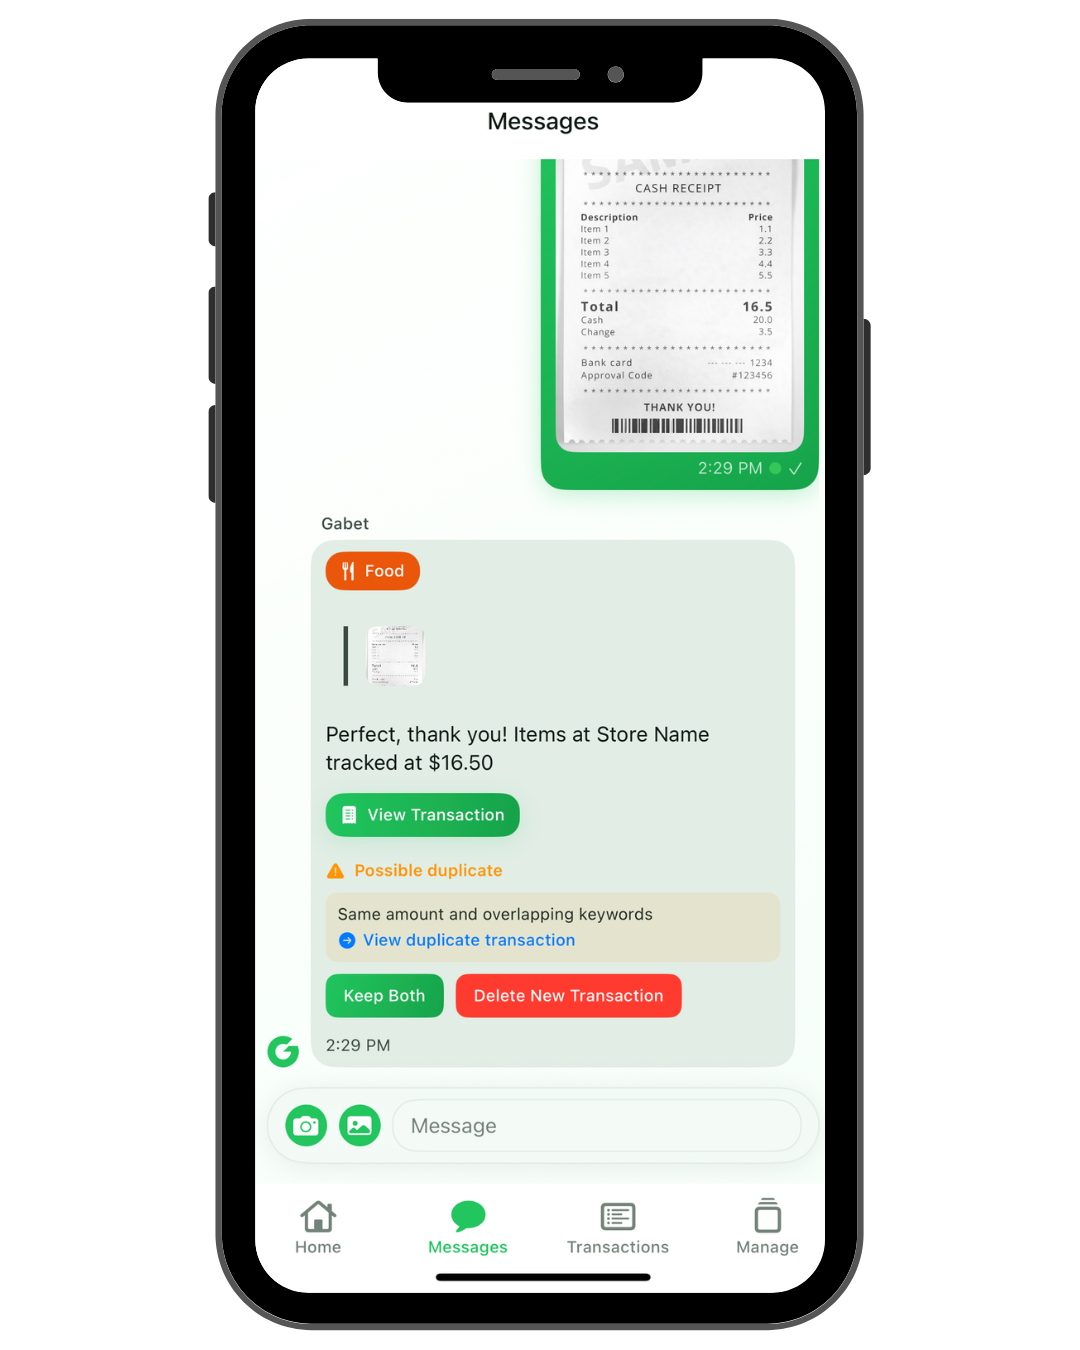
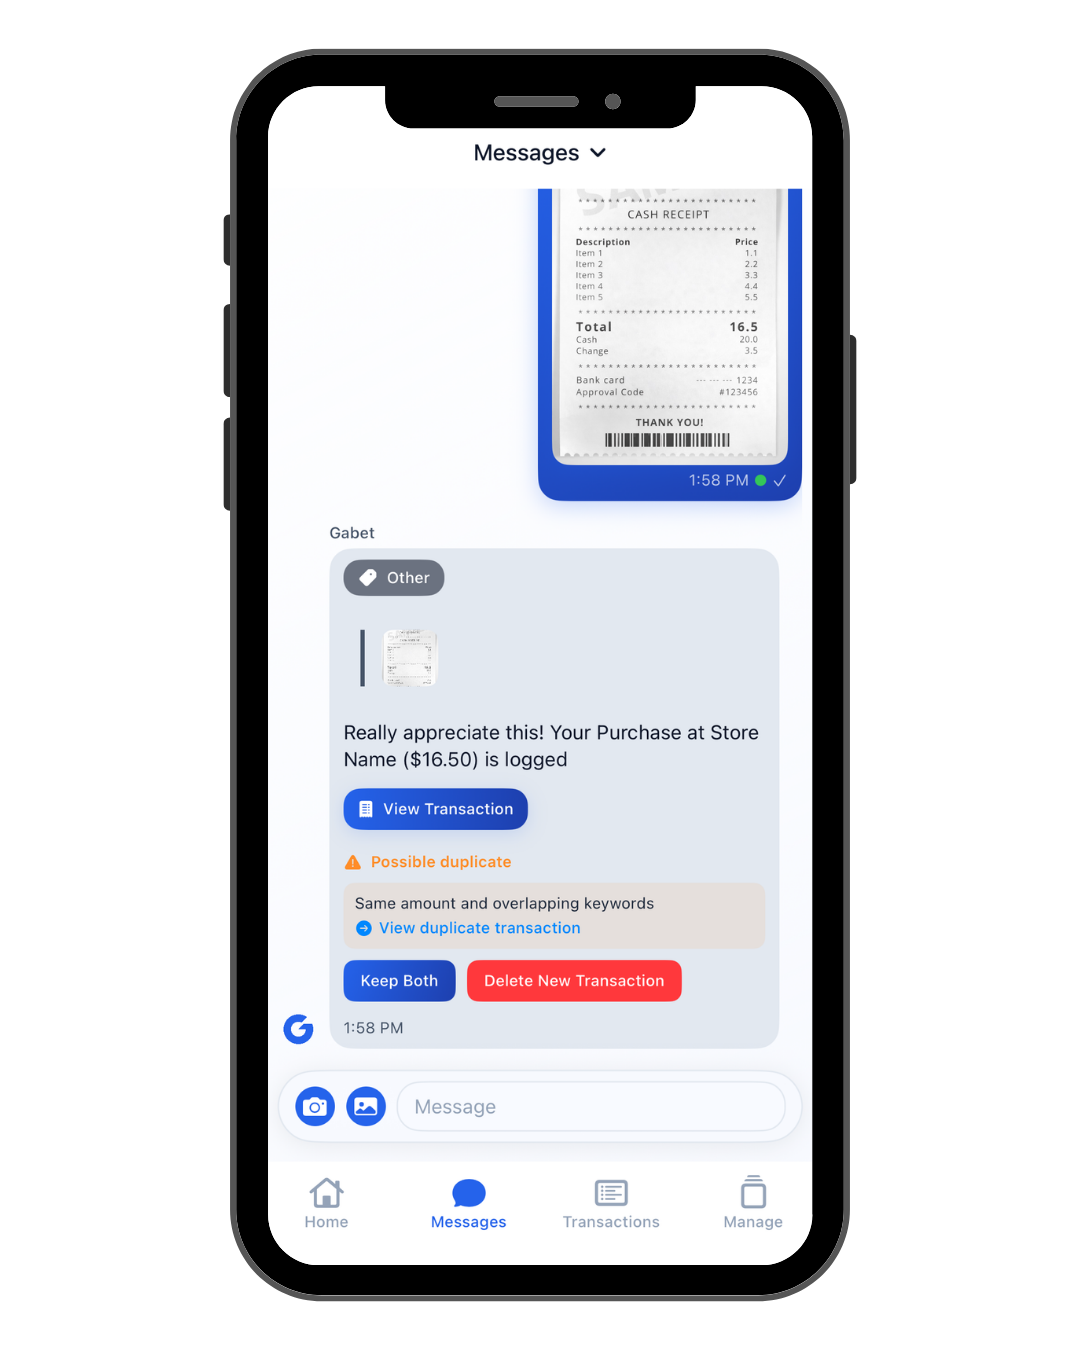
Update color theme

Changed region(s): [[0.1833, 0.0, 0.825, 0.9956]]

diff --git a/index.html b/index.html
@@ -6,45 +6,45 @@
   <title>Gabet - Conversational Budgeting</title>
   <style>
     :root {
-      --primary: #22C55E;
-      --primary-dark: #16A34A;
-      --tertiary: #15803D;
-      --accent-mint: #4ADE80;
-      --accent-teal: #14B8A6;
-      --accent-gold: #FACC15;
-      --text: #0F1A14;
-      --neutral700: #1F2B24;
-      --neutral500: #3B4B42;
-      --neutral300: #738379;
-      --border: #E1EDE5;
-      --surface-elevated: #F4FBF6;
+      --primary: #2563EB;
+      --primary-dark: #1E40AF;
+      --tertiary: #1E3A8A;
+      --accent-mint: #60A5FA;
+      --accent-teal: #93C5FD;
+      --accent-gold: #FBBF24;
+      --text: #0F172A;
+      --neutral700: #1E293B;
+      --neutral500: #475569;
+      --neutral300: #94A3B8;
+      --border: #E2E8F0;
+      --surface-elevated: #F8FAFF;
       --surface: #FFFFFF;
       --shadow-sm: 0 4px 10px rgba(0,0,0,0.08);
       --shadow-md: 0 20px 22px rgba(0,0,0,0.12);
-      --shadow-glow: 0 12px 15px rgba(34,197,94,0.25);
+      --shadow-glow: 0 12px 15px rgba(37,99,235,0.25);
       --radius-1: 8px;
       --radius-2: 16px;
       --radius-3: 28px;
       --radius-pill: 999px;
-      --bg-page: linear-gradient(135deg, #FFFFFF, #F4FBF6);
-      --bg-card: linear-gradient(180deg, #FFFFFF, #F7FFF9);
-      --bg-header: linear-gradient(135deg, rgba(34,197,94,0.15), rgba(34,197,94,0.05));
-      --bg-button: linear-gradient(135deg, #22C55E, #16A34A);
+      --bg-page: linear-gradient(135deg, #FFFFFF, #EFF4FF);
+      --bg-card: linear-gradient(180deg, #FFFFFF, #F5F7FF);
+      --bg-header: linear-gradient(135deg, rgba(37,99,235,0.15), rgba(37,99,235,0.05));
+      --bg-button: linear-gradient(135deg, #2563EB, #1E40AF);
       color-scheme: light;
     }
 
     @media (prefers-color-scheme: dark) {
       :root:not([data-theme="light"]) {
-        --text: #E9F4EC;
-        --neutral700: #CFDCD4;
-        --neutral500: #A4B6AB;
-        --neutral300: #6A7C72;
-        --border: #2A352E;
-        --surface-elevated: #16211A;
-        --surface: #0F1510;
-        --bg-page: linear-gradient(135deg, #0B1912, #0F2418);
-        --bg-card: linear-gradient(180deg, #132017, #0F1A13);
-        --bg-header: linear-gradient(135deg, rgba(34,197,94,0.22), rgba(34,197,94,0.08));
+        --text: #E2E8F0;
+        --neutral700: #CBD5E1;
+        --neutral500: #94A3B8;
+        --neutral300: #64748B;
+        --border: #334155;
+        --surface-elevated: #1E293B;
+        --surface: #0F172A;
+        --bg-page: linear-gradient(135deg, #0F172A, #1E293B);
+        --bg-card: linear-gradient(180deg, #1E293B, #0F172A);
+        --bg-header: linear-gradient(135deg, rgba(37,99,235,0.22), rgba(37,99,235,0.08));
       }
     }
 
@@ -182,16 +182,16 @@
     .theme-toggle[data-state="dark"] .icon-moon { display: block; }
 
     :root[data-theme="light"] {
-      --text: #0F1A14;
-      --neutral700: #1F2B24;
-      --neutral500: #3B4B42;
-      --neutral300: #738379;
-      --border: #E1EDE5;
-      --surface-elevated: #F4FBF6;
+      --text: #0F172A;
+      --neutral700: #1E293B;
+      --neutral500: #475569;
+      --neutral300: #94A3B8;
+      --border: #E2E8F0;
+      --surface-elevated: #F8FAFF;
       --surface: #FFFFFF;
-      --bg-page: linear-gradient(135deg, #FFFFFF, #F4FBF6);
-      --bg-card: linear-gradient(180deg, #FFFFFF, #F7FFF9);
-      --bg-header: linear-gradient(135deg, rgba(34,197,94,0.15), rgba(34,197,94,0.05));
+      --bg-page: linear-gradient(135deg, #FFFFFF, #EFF4FF);
+      --bg-card: linear-gradient(180deg, #FFFFFF, #F5F7FF);
+      --bg-header: linear-gradient(135deg, rgba(37,99,235,0.15), rgba(37,99,235,0.05));
       color-scheme: light;
     }
 
@@ -222,7 +222,7 @@
       }
 
       :root:not([data-theme="light"]) .mock-phone {
-        background: linear-gradient(180deg, rgba(20,184,166,0.1), rgba(34,197,94,0.08));
+        background: linear-gradient(180deg, rgba(37,99,235,0.12), rgba(30,64,175,0.1));
         border-color: rgba(255,255,255,0.12);
         color: var(--text);
       }
@@ -234,8 +234,8 @@
       }
 
       :root:not([data-theme="light"]) .price-card.featured {
-        background: linear-gradient(180deg, rgba(34,197,94,0.14), rgba(20,184,166,0.08));
-        border-color: rgba(34,197,94,0.4);
+        background: linear-gradient(180deg, rgba(37,99,235,0.16), rgba(30,64,175,0.1));
+        border-color: rgba(37,99,235,0.4);
         box-shadow: 0 28px 44px rgba(0,0,0,0.4);
       }
 
@@ -273,16 +273,16 @@
     }
 
     :root[data-theme="dark"] {
-      --text: #E9F4EC;
-      --neutral700: #CFDCD4;
-      --neutral500: #A4B6AB;
-      --neutral300: #6A7C72;
-      --border: #2A352E;
-      --surface-elevated: #16211A;
-      --surface: #0F1510;
-      --bg-page: linear-gradient(135deg, #0B1912, #0F2418);
-      --bg-card: linear-gradient(180deg, #132017, #0F1A13);
-      --bg-header: linear-gradient(135deg, rgba(34,197,94,0.22), rgba(34,197,94,0.08));
+      --text: #E2E8F0;
+      --neutral700: #CBD5E1;
+      --neutral500: #94A3B8;
+      --neutral300: #64748B;
+      --border: #334155;
+      --surface-elevated: #1E293B;
+      --surface: #0F172A;
+      --bg-page: linear-gradient(135deg, #0F172A, #1E293B);
+      --bg-card: linear-gradient(180deg, #1E293B, #0F172A);
+      --bg-header: linear-gradient(135deg, rgba(37,99,235,0.22), rgba(37,99,235,0.08));
       color-scheme: dark;
     }
 
@@ -312,7 +312,7 @@
     }
 
     :root[data-theme="dark"] .mock-phone {
-      background: linear-gradient(180deg, rgba(20,184,166,0.1), rgba(34,197,94,0.08));
+      background: linear-gradient(180deg, rgba(37,99,235,0.12), rgba(30,64,175,0.1));
       border-color: rgba(255,255,255,0.12);
       color: var(--text);
     }
@@ -324,8 +324,8 @@
     }
 
     :root[data-theme="dark"] .price-card.featured {
-      background: linear-gradient(180deg, rgba(34,197,94,0.14), rgba(20,184,166,0.08));
-      border-color: rgba(34,197,94,0.4);
+      background: linear-gradient(180deg, rgba(37,99,235,0.16), rgba(30,64,175,0.1));
+      border-color: rgba(37,99,235,0.4);
       box-shadow: 0 28px 44px rgba(0,0,0,0.4);
     }
 
@@ -487,8 +487,8 @@
       align-items: center;
       gap: 8px;
       padding: 8px 12px;
-      background: rgba(20, 184, 166, 0.08);
-      color: var(--accent-teal);
+      background: rgba(37, 99, 235, 0.08);
+      color: var(--primary);
       border-radius: var(--radius-pill);
       border: 1px solid var(--border);
       width: fit-content;
@@ -551,7 +551,7 @@
       display: inline-flex;
       align-items: center;
       gap: 10px;
-      background: #0F1510;
+      background: #0F172A;
       color: #fff;
       padding: 12px 16px;
       border-radius: 14px;
@@ -593,8 +593,8 @@
     }
 
     .screen-card {
-      background: #F4FBF6;
-      border: 1px solid rgba(34,197,94,0.12);
+      background: var(--bg-card);
+      border: 1px solid var(--border);
       border-radius: var(--radius-2);
       padding: 12px 12px 16px;
       box-shadow: var(--shadow-sm);
@@ -617,7 +617,7 @@
 
     .mock-phone {
       width: 100%;
-      background: #F1FBF5;
+      background: var(--surface-elevated);
       border-radius: 18px;
       padding: 10px;
       border: 1px solid var(--border);
@@ -650,7 +650,7 @@
     }
 
     .price-card {
-      background: rgba(255,255,255,0.7);
+      background: rgba(255,255,255,0.8);
       border: 1px solid var(--border);
       border-radius: var(--radius-2);
       padding: 20px;
@@ -664,9 +664,9 @@
     }
 
     .price-card.featured {
-      background: linear-gradient(135deg, rgba(34,197,94,0.08), rgba(20,184,166,0.08)), var(--surface);
+      background: linear-gradient(135deg, rgba(37,99,235,0.12), rgba(30,64,175,0.1)), var(--surface);
       box-shadow: var(--shadow-md);
-      border-color: rgba(34,197,94,0.4);
+      border-color: rgba(37,99,235,0.4);
     }
 
     .price {
@@ -735,14 +735,14 @@
       position: absolute;
       width: 240px;
       height: 240px;
-      background: radial-gradient(circle at center, rgba(34,197,94,0.24), transparent 60%);
+      background: radial-gradient(circle at center, rgba(37,99,235,0.28), transparent 60%);
       filter: blur(30px);
       opacity: 0.8;
       z-index: -1;
     }
 
     .glow.a { top: 12%; left: 10%; }
-    .glow.b { bottom: 16%; right: 8%; background: radial-gradient(circle at center, rgba(20,184,166,0.28), transparent 62%); }
+    .glow.b { bottom: 16%; right: 8%; background: radial-gradient(circle at center, rgba(30,64,175,0.32), transparent 62%); }
 
     @media (max-width: 1024px) {
       section {
@@ -957,6 +957,28 @@
             </div>
             <div class="label">Transaction List</div>
           </div>
+          <div class="screen-card">
+            <div class="mock-phone">
+              <img
+                class="phone-image"
+                src="recurring-transaction-light.png"
+                data-light-src="recurring-transaction-light.png"
+                data-dark-src="recurring-transaction-dark.png"
+                alt="Recurring transactions mockup">
+            </div>
+            <div class="label">Recurring Transactions</div>
+          </div>
+          <div class="screen-card">
+            <div class="mock-phone">
+              <img
+                class="phone-image"
+                src="reports-light.png"
+                data-light-src="reports-light.png"
+                data-dark-src="reports-dark.png"
+                alt="Reports overview mockup">
+            </div>
+            <div class="label">Reports</div>
+          </div>
         </div>
       </section>
 
@@ -979,14 +1001,13 @@
           </div>
           <div class="price-card featured">
             <div class="label">Plus</div>
-            <div class="price">$2.99 <small>/ month</small></div>
+            <div class="price">$9.99 <small>/ month</small></div>
             <div class="feature-list">
               <div><span class="check">&check;</span> Unlimited history</div>
               <div><span class="check">&check;</span> Pattern alerts & nudges</div>
               <div><span class="check">&check;</span> Priority support</div>
               <div><span class="check">&check;</span> Export & shared plans</div>
             </div>
-            <div class="price body" style="margin-top:6px;">$29.99 <small>/ year (save 16%)</small></div>
           </div>
         </div>
       </section>
